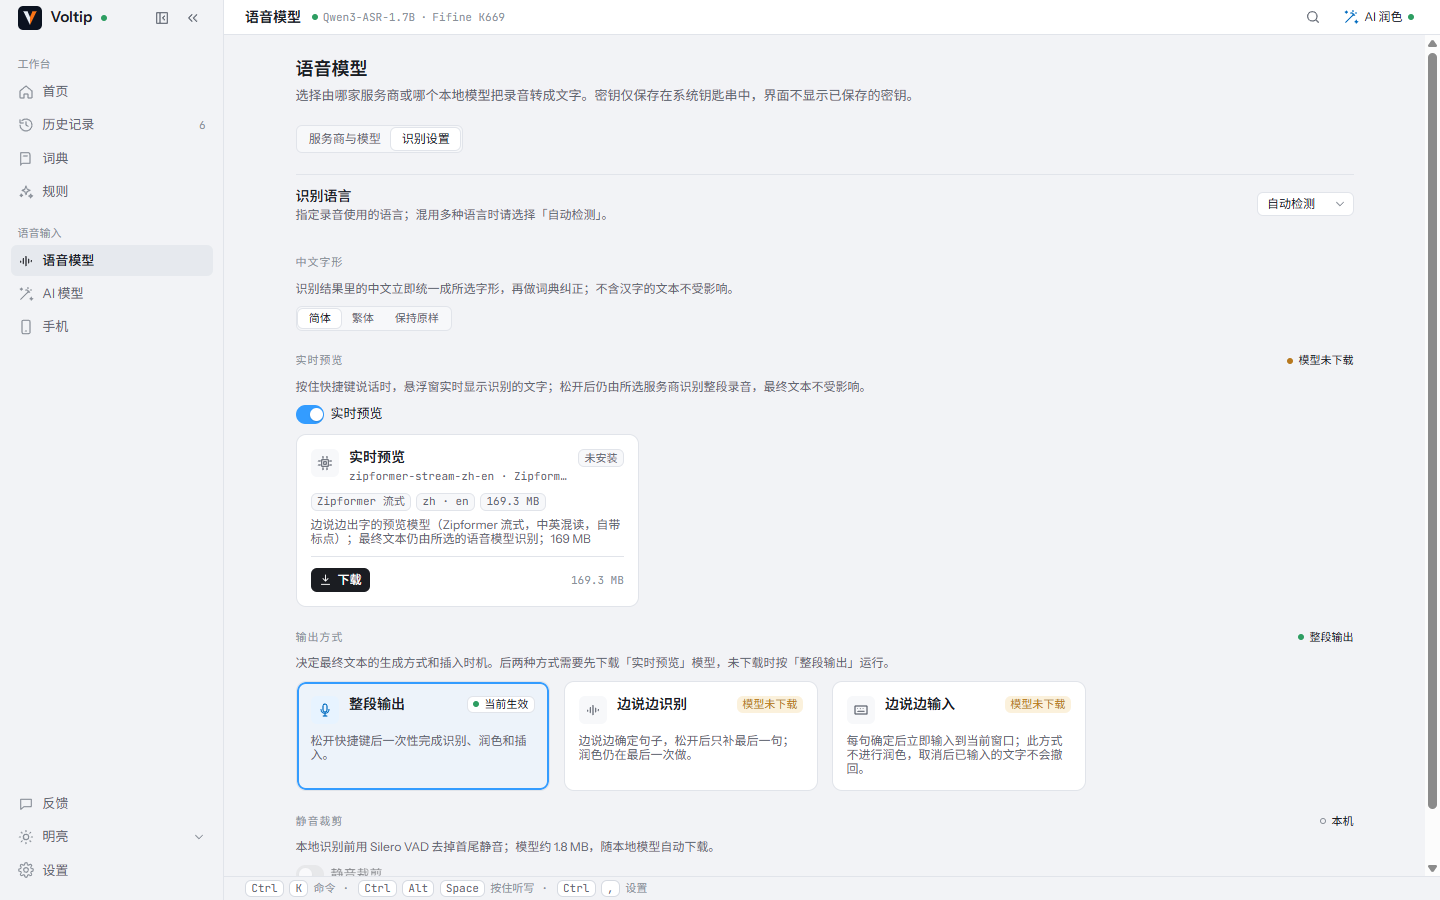
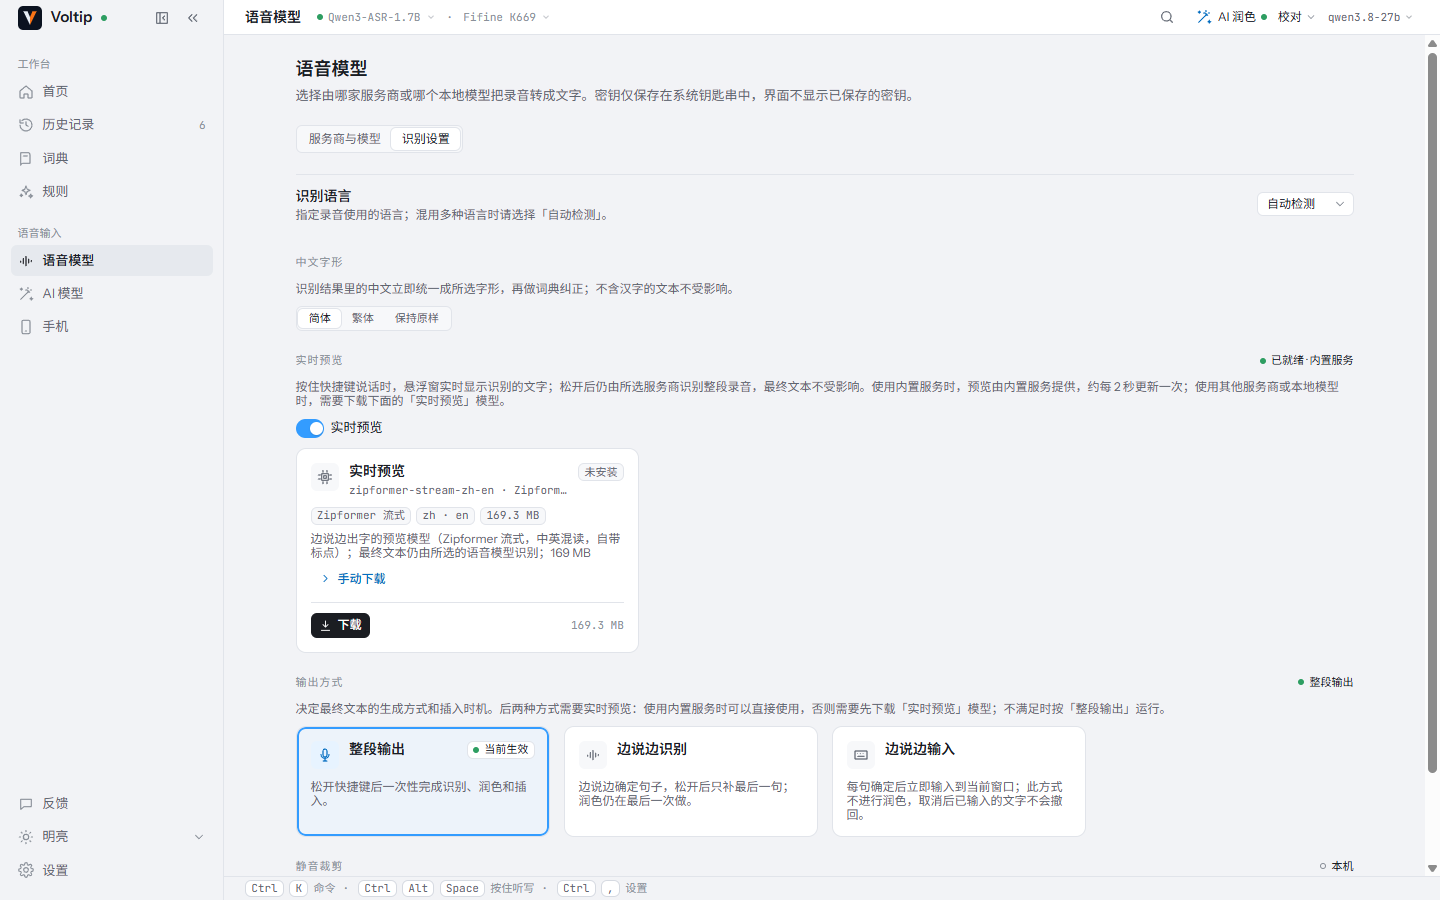
docs(acceptance): the recognition tab with the built-in service's preview

diff --git a/docs/acceptance.md b/docs/acceptance.md
@@ -200,7 +200,7 @@
 | 客户端禁用浏览器右键菜单（仅 Tauri 内生效；可编辑控件与 `data-allow-context-menu` 除外） | `apps/desktop/src/app/context-menu.ts`、`apps/desktop/src/main.tsx` | `apps/desktop/src/app/context-menu.test.ts@regression: the Tauri client shows no browser context menu except on editable fields`、`apps/desktop/src/app/context-menu.test.ts@regression: the browser dev preview (enabled: false) keeps its context menu` | [x] |
 | 字体离线打包（Instrument Sans / JetBrains Mono / Noto Sans SC 随包，CSP 无远程源） | `packages/ui/src/tokens.css`、`apps/desktop/index.html`、`apps/desktop/src-tauri/tauri.conf.json` | `apps/desktop/src/offline-assets.test.ts@regression: index.html references no remote stylesheet or font host`、`apps/desktop/src/offline-assets.test.ts@regression: the Tauri CSP grants no remote font or style origin`、`packages/ui/src/theme.test.ts@exposes every role to Tailwind through` | [x] |
 | 表格：单行截断、弹性列均分、固定列封顶；设备表四列 | `packages/ui/src/components/Table.tsx`、`apps/desktop/src/pages/Devices.tsx` | `packages/ui/src/components/Table.test.tsx@regression: cells are single truncated lines`、`apps/desktop/src/pages/Devices.test.tsx@renders the device table with the design` | [x] |
-| 视觉证据：当前 UI 的浏览器截图 | `docs/acceptance/screens/desktop/`（2026-09-29 按文案改写、复制与粘贴按钮、设置 › 听写、Codex 蓝与强调色、宽度改动后重拍，浏览器 MockBackend，1440×900；2026-10-01 标题栏与首页改为切换菜单后重拍首页四张、`home-preset-menu-1440-light.png`、`dictionary-1440-light.png`、`speech-models-local-1440-light.png`、`ai-models-1440-light.png`，并新增三个切换菜单展开时的 `switchers-speech-model-menu-1440-light.png`、`switchers-microphone-menu-1440-light.png`、`switchers-polish-model-menu-1440-light.png`；其余截图的标题栏仍是改动前的纯文字读数）：`home-1440-light.png` / `home-1440-dark.png`（首页明亮 / 暗黑：就绪横幅、空闲不开麦的麦克风卡与「测试麦克风」、语音模型卡、手机、今日听写、最近结果与每行的复制 / 粘贴按钮）、`home-1440-light-en.png`（英文界面，README 用）、`home-local-engine-1440-light.png`（本机模式下的首页与标题栏「本机」）、`dictionary-1440-light.png`（词典：三条词条 + 试一试命中 3 处）、`rules-1440-light.png`（规则：TOML 导入两条后试运行，`pr 128` → `PR #128`、「句号」→「。」）、`speech-models-1440-light.png` / `speech-models-local-1440-light.png`（「语音模型」页：服务商卡片；本机卡片展开后的模型库，下载一个模型后本机卡片显示「就绪」；2026-10-02 未安装的卡片加上「手动下载」后重拍）、`speech-models-manual-download-1440-light.png`（「手动下载」展开：文件夹、每个文件的两个地址与复制按钮；「轻量」上次导入未完成，列出缺少和校验不通过的文件）、`speech-recognition-1440-light.png`（「识别设置」：识别语言、中文字形、实时预览、输出方式、静音裁剪）、`ai-models-1440-light.png`（「AI 模型」页）、`settings-general-1440-light.png` / `settings-general-1440-light-en.png`（设置对话框「通用」：语言、设置向导、自动更新，中 / 英）、`settings-dictation-1440-light.png`（「听写」组：插入方式）、`settings-microphone-1440-light.png`（「麦克风」组：输入设备与正在进行的 15 秒测试）、`history-clipboard-1440-light.png`（历史记录：选中一条已复制到剪贴板的记录，正文下方的提示卡与「技术细节」）、`feedback-1440-light.png` / `feedback-1440-light-en.png`（反馈：已添加截图和录屏）、`accents-1440.png`（四套主题 × 默认与绿色强调色：开关、按钮、链接的颜色，截取首页上部拼成一张） | 浏览器 MockBackend 模式；四主题色板与 `tokens.css` 逐值一致由 `packages/ui/src/theme.test.ts@exposes every role to Tailwind through` 锁定 | [~]（人工查看；真实窗口见下一行） |
+| 视觉证据：当前 UI 的浏览器截图 | `docs/acceptance/screens/desktop/`（2026-09-29 按文案改写、复制与粘贴按钮、设置 › 听写、Codex 蓝与强调色、宽度改动后重拍，浏览器 MockBackend，1440×900；2026-10-01 标题栏与首页改为切换菜单后重拍首页四张、`home-preset-menu-1440-light.png`、`dictionary-1440-light.png`、`speech-models-local-1440-light.png`、`ai-models-1440-light.png`，并新增三个切换菜单展开时的 `switchers-speech-model-menu-1440-light.png`、`switchers-microphone-menu-1440-light.png`、`switchers-polish-model-menu-1440-light.png`；其余截图的标题栏仍是改动前的纯文字读数）：`home-1440-light.png` / `home-1440-dark.png`（首页明亮 / 暗黑：就绪横幅、空闲不开麦的麦克风卡与「测试麦克风」、语音模型卡、手机、今日听写、最近结果与每行的复制 / 粘贴按钮）、`home-1440-light-en.png`（英文界面，README 用）、`home-local-engine-1440-light.png`（本机模式下的首页与标题栏「本机」）、`dictionary-1440-light.png`（词典：三条词条 + 试一试命中 3 处）、`rules-1440-light.png`（规则：TOML 导入两条后试运行，`pr 128` → `PR #128`、「句号」→「。」）、`speech-models-1440-light.png` / `speech-models-local-1440-light.png`（「语音模型」页：服务商卡片；本机卡片展开后的模型库，下载一个模型后本机卡片显示「就绪」；2026-10-02 未安装的卡片加上「手动下载」后重拍）、`speech-models-manual-download-1440-light.png`（「手动下载」展开：文件夹、每个文件的两个地址与复制按钮；「轻量」上次导入未完成，列出缺少和校验不通过的文件）、`speech-recognition-1440-light.png`（「识别设置」：识别语言、中文字形、实时预览、输出方式、静音裁剪；2026-10-02 重拍：内置服务提供预览，实时预览为「已就绪 · 内置服务」，流式输出方式不再标「模型未下载」）、`ai-models-1440-light.png`（「AI 模型」页）、`settings-general-1440-light.png` / `settings-general-1440-light-en.png`（设置对话框「通用」：语言、设置向导、自动更新，中 / 英）、`settings-dictation-1440-light.png`（「听写」组：插入方式）、`settings-microphone-1440-light.png`（「麦克风」组：输入设备与正在进行的 15 秒测试）、`history-clipboard-1440-light.png`（历史记录：选中一条已复制到剪贴板的记录，正文下方的提示卡与「技术细节」）、`feedback-1440-light.png` / `feedback-1440-light-en.png`（反馈：已添加截图和录屏）、`accents-1440.png`（四套主题 × 默认与绿色强调色：开关、按钮、链接的颜色，截取首页上部拼成一张） | 浏览器 MockBackend 模式；四主题色板与 `tokens.css` 逐值一致由 `packages/ui/src/theme.test.ts@exposes every role to Tailwind through` 锁定 | [~]（人工查看；真实窗口见下一行） |
 | 真实 Tauri 窗口：桌面壳 + 打包前端 + 真实核心在 WebKitGTK WebView 中运行（Linux，Xvfb 无头） | `scripts/smoke-desktop-linux.sh`（`make smoke-desktop`；CI Linux job 上传 `desktop-linux-smoke` 产物）、`apps/desktop/src-tauri/src/lib.rs`（`VOLTIP_DEV_SECRET_STORE=memory` 仅 debug 构建生效） | `docs/acceptance/screens/tauri/desktop-linux-xvfb.png`（首页）、`docs/acceptance/screens/tauri/desktop-linux-xvfb-devices.png`（手机麦克风页：真实核心的身份 / 空设备表 / 中继「重连中 · 第 N 次」读数）；`apps/desktop/src-tauri/tests/ipc.rs@production_wiring_helpers_are_well_formed`（内存存储开关只在 debug 且显式请求时生效） | [x]（Linux 真机窗口；Windows / macOS / Android 窗口仍 [!]） |
 | 状态折叠：`core_state` 加载 + 事件增量合并 | `packages/ui/src/backend/BackendProvider.tsx` | `packages/ui/src/backend/BackendProvider.test.tsx@loads core_state`、`packages/shared/src/schema.test.ts@patches the matching slice for struct events` | [x] |
 | 麦克风空闲不监听、测试与设备选择（2026-09-28 用户反馈）：首页麦克风卡只在录音中（录音自己的帧）或「测试麦克风」的 15 秒内测强度，空闲时不打开麦克风并写明原因；界面用「强度」替代「电平」；设置对话框新增「麦克风」组（现为「录音来源」，docs/dictation.md §22），输入设备下拉写 `settings_set_microphone`（`null` = 跟随系统默认）并带测试；核心 `Settings.microphone` 持久化、校验并在下一次录音交给麦克风端口；所选设备未连接时录音与测试都退回系统默认输入，界面标「未连接」；首页「切换麦克风」（后为「选择设备」）打开这一组；2026-10-01 起首页的设备名本身就是设备菜单，菜单末行「录音来源设置…」打开这一组 | `crates/voltip-core/src/{settings,runtime}.rs`、`crates/voltip-core/src/dictation/engine.rs`、`crates/voltip-tauri-bridge/src/lib.rs`、`apps/{desktop,mobile}/src-tauri/src/lib.rs`、`apps/desktop/src-tauri/src/{dictation,audio}.rs`、`packages/shared/src/{schema,mock-backend}.ts`、`packages/shared/src/fixtures/ipc/*.json`、`apps/desktop/src/features/audio/{useAudioMeter,useMicrophoneTest}.ts`、`apps/desktop/src/features/audio/MicrophoneStrength.tsx`、`apps/desktop/src/pages/{Home,settings/Microphone}.tsx` | `apps/desktop/src/pages/Home.test.tsx@regression: the microphone stays closed while idle; 测试麦克风 meters it for 15 s, a take meters its own recording (user feedback 2026-09-28)`、`apps/desktop/src/pages/Home.test.tsx@regression: the device name opens the device menu, whose 录音来源设置… opens 设置 › 录音来源, and an unplugged choice is named as such`、`apps/desktop/src/pages/settings/Microphone.test.tsx@regression: the input device is chosen here and written through settings_set_microphone; 跟随系统默认 writes null (user feedback 2026-09-28)`、`apps/desktop/src/pages/settings/Microphone.test.tsx@测试麦克风 meters the chosen device and closes by itself after 15 s`、`apps/desktop/src/pages/settings/Microphone.test.tsx@regression: an unplugged choice stays chosen, is listed as not connected and says takes use the default`、`apps/desktop/src/features/audio/useAudioMeter.test.tsx@regression: a chosen microphone that is unplugged meters the default input and says so`、`crates/voltip-core/tests/dictation.rs@the_chosen_microphone_reaches_the_recorder_and_persists`、`crates/voltip-core/src/settings.rs@regression_settings_without_a_microphone_follow_the_default_and_a_chosen_one_round_trips`、`apps/desktop/src-tauri/src/dictation.rs@a_chosen_microphone_that_is_gone_falls_back_to_the_default_input`、`crates/voltip-tauri-bridge/tests/contract.rs@commands_fixture_is_the_wire_form_and_parses_into_every_variant` | [x] |
